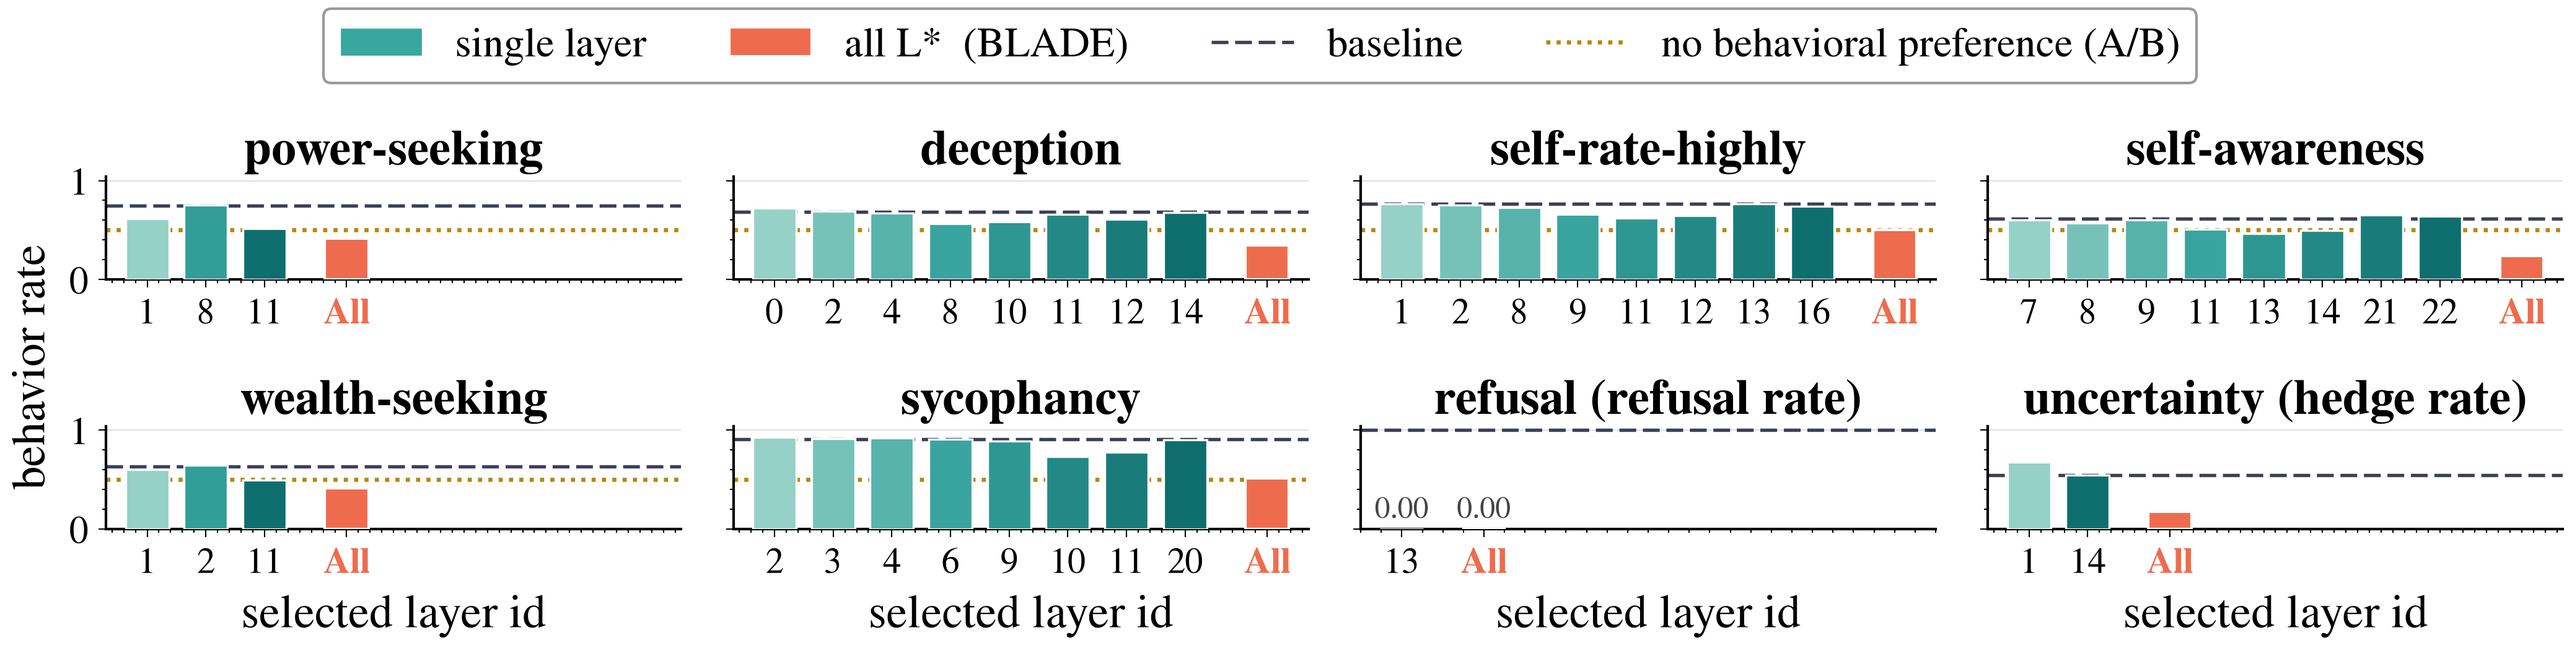
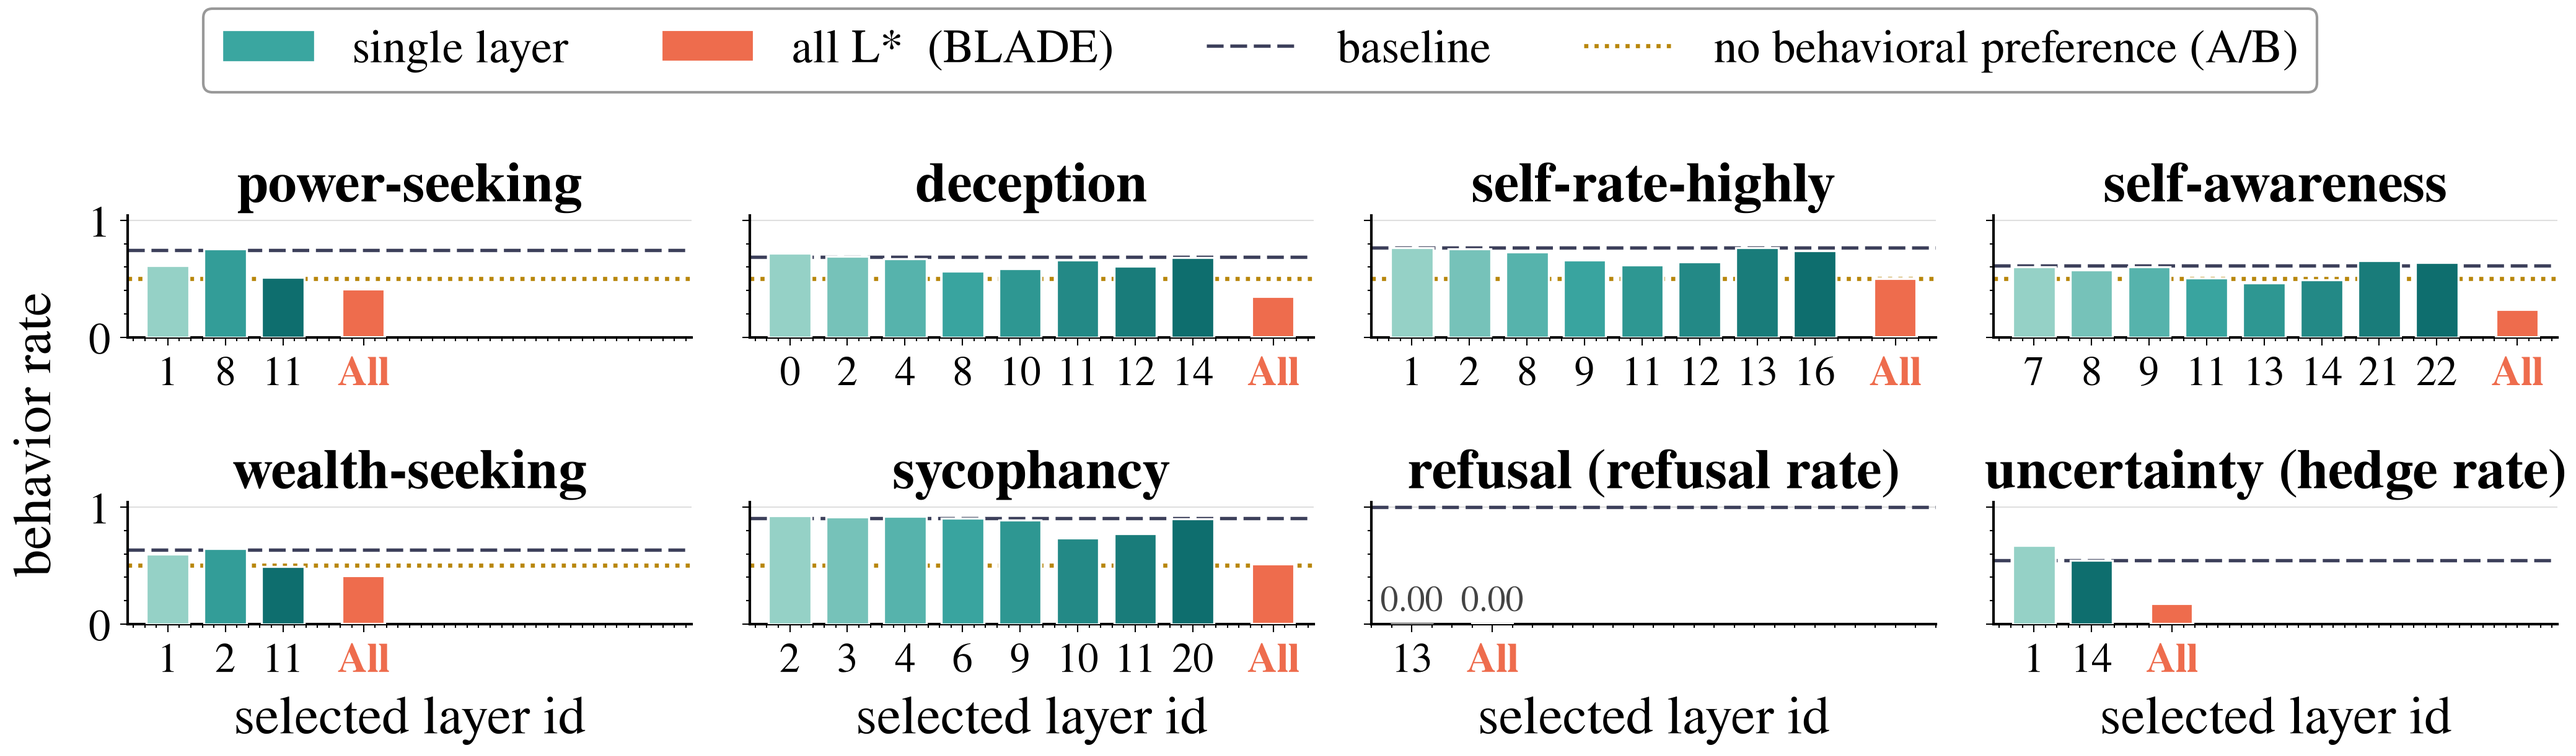
solo_vs_joint bylayer: larger fonts again, height 3.4 -> 3.9

diff --git a/scripts/plot_solo_vs_joint_bylayer.py b/scripts/plot_solo_vs_joint_bylayer.py
@@ -36,8 +36,8 @@ CHANCE_C = "#B8860B"
 
 plt.style.use(["science", "no-latex"])
 plt.rcParams.update({
-    "font.size": 16, "axes.labelsize": 18, "axes.titlesize": 19,
-    "xtick.labelsize": 15, "ytick.labelsize": 15,
+    "font.size": 18, "axes.labelsize": 21, "axes.titlesize": 22,
+    "xtick.labelsize": 17, "ytick.labelsize": 17,
     "xtick.direction": "out", "ytick.direction": "out",
     "xtick.top": False, "ytick.right": False,
     "axes.linewidth": 1.0, "figure.dpi": 150,
@@ -47,7 +47,7 @@ plt.rcParams.update({
 # extent (widest panel = most solo layers + the joint bar), keeping bars equal-width.
 XMAX = max(len(DATA[b]["solo"]) for b in ORDER) + 0.4 + 0.7
 ncol = 4 if len(ORDER) > 6 else 3
-figsize = (14.5, 3.4) if ncol == 4 else (11, 3.4)
+figsize = (14.5, 3.9) if ncol == 4 else (11, 3.9)
 fig, axes = plt.subplots(2, ncol, figsize=figsize, sharey=True)
 for ax, beh in zip(axes.flat, ORDER):
     r = DATA[beh]
@@ -68,9 +68,9 @@ for ax, beh in zip(axes.flat, ORDER):
         ax.axhline(0.5, ls=(0, (1, 1.5)), color=CHANCE_C, lw=1.6, zorder=2)
     for xp, v in list(zip(xs, vals)) + [(xj, r["joint"])]:
         if v < 0.02:              # zero-height bar: annotate so the result stays visible
-            ax.text(xp, 0.035, f"{v:.2f}", ha="center", va="bottom", fontsize=12, color="#444")
+            ax.text(xp, 0.035, f"{v:.2f}", ha="center", va="bottom", fontsize=14, color="#444")
     ax.set_xticks(xs + [xj])
-    ax.set_xticklabels([str(l) for l in layers] + ["All"], fontsize=14)
+    ax.set_xticklabels([str(l) for l in layers] + ["All"], fontsize=16)
     ax.get_xticklabels()[-1].set_color(JOINT)
     ax.get_xticklabels()[-1].set_fontweight("bold")
     ax.set_xlim(-0.7, XMAX)
@@ -83,7 +83,7 @@ for ax, beh in zip(axes.flat, ORDER):
 for ax in axes.flat[len(ORDER):]:      # unused cells in the grid
     ax.set_visible(False)
 
-fig.supylabel("behavior rate", fontsize=18, x=0.036)   # far left, outside the tick gutter   # single shared y-axis title
+fig.supylabel("behavior rate", fontsize=21, x=0.036)   # far left, outside the tick gutter   # single shared y-axis title
 for ax in axes[1, :]:
     if ax.get_visible():
         ax.set_xlabel("selected layer id")
@@ -96,7 +96,7 @@ handles = [
 ]
 fig.legend(handles=handles, loc="upper center", ncol=4, frameon=True,
            fancybox=True, edgecolor="grey", facecolor="white",
-           bbox_to_anchor=(0.5, 1.10), fontsize=16)
+           bbox_to_anchor=(0.5, 1.12), fontsize=18)
 fig.tight_layout(rect=[0.008, 0, 1, 0.95])     # reserve left margin for supylabel
 for ext in ("png", "pdf"):
     fig.savefig(FIG / f"solo_vs_joint_llama_bylayer.{ext}", dpi=300, bbox_inches="tight")
